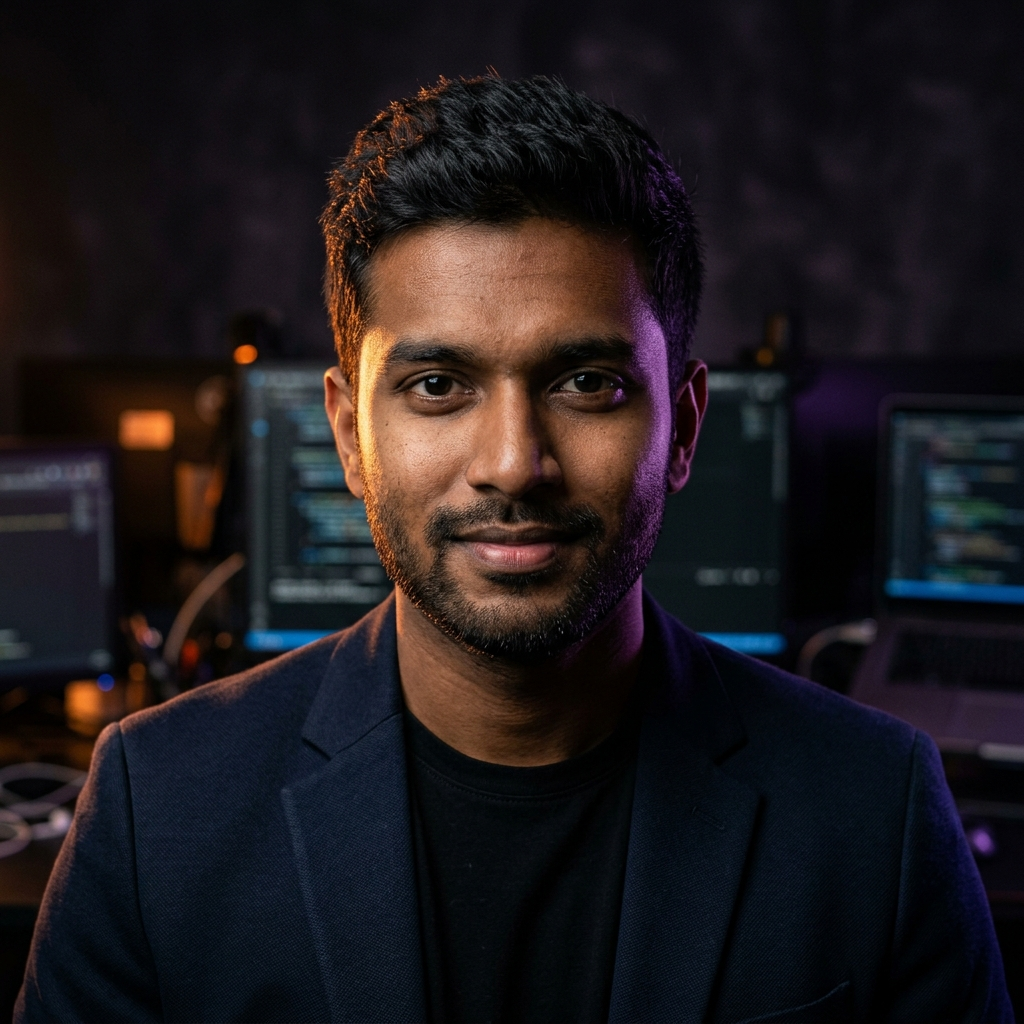
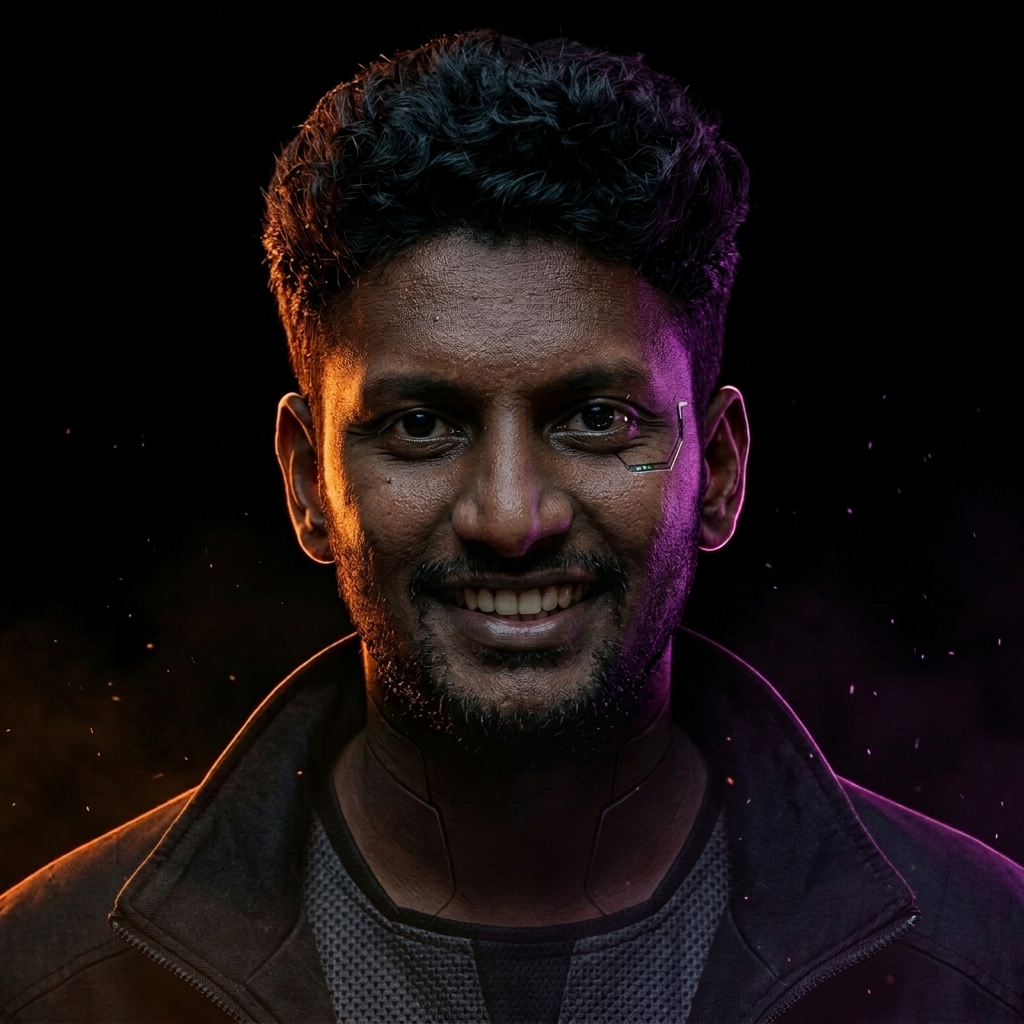
feat: initialize frontend components, HTML structure, and contact terminal interface

diff --git a/Frontend/src/components/Hero.css b/Frontend/src/components/Hero.css
@@ -11,7 +11,7 @@
   justify-content: center;
   padding: 120px 24px 60px;
   overflow: hidden;
-  background: 
+  background:
     radial-gradient(ellipse 80% 60% at 50% 50%, rgba(88, 28, 135, 0.15) 0%, transparent 70%),
     radial-gradient(ellipse 60% 40% at 20% 50%, rgba(255, 107, 53, 0.08) 0%, transparent 60%),
     radial-gradient(ellipse 60% 40% at 80% 50%, rgba(255, 107, 53, 0.08) 0%, transparent 60%),
@@ -54,10 +54,25 @@
 }
 
 @keyframes float-particle {
-  0% { opacity: 0; transform: translateY(0) scale(0); }
-  20% { opacity: 0.8; transform: translateY(-20px) scale(1); }
-  80% { opacity: 0.4; transform: translateY(-80px) scale(0.8); }
-  100% { opacity: 0; transform: translateY(-120px) scale(0); }
+  0% {
+    opacity: 0;
+    transform: translateY(0) scale(0);
+  }
+
+  20% {
+    opacity: 0.8;
+    transform: translateY(-20px) scale(1);
+  }
+
+  80% {
+    opacity: 0.4;
+    transform: translateY(-80px) scale(0.8);
+  }
+
+  100% {
+    opacity: 0;
+    transform: translateY(-120px) scale(0);
+  }
 }
 
 /* ---- Code Snippets ---- */
@@ -118,8 +133,15 @@
 }
 
 @keyframes code-fade {
-  0%, 100% { opacity: 0.3; }
-  50% { opacity: 0.8; }
+
+  0%,
+  100% {
+    opacity: 0.3;
+  }
+
+  50% {
+    opacity: 0.8;
+  }
 }
 
 /* ---- Comment ---- */
@@ -143,21 +165,19 @@
   letter-spacing: 4px;
   margin: 0 0 16px;
   line-height: 1.1;
-  background: linear-gradient(135deg, 
-    #00f0ff 0%, 
-    #a855f7 25%, 
-    #ff00ff 50%, 
-    #ff1493 75%, 
-    #00f0ff 100%
-  );
+  background: linear-gradient(135deg,
+      #00f0ff 0%,
+      #a855f7 25%,
+      #ff00ff 50%,
+      #ff1493 75%,
+      #00f0ff 100%);
   background-size: 200% 200%;
   -webkit-background-clip: text;
   background-clip: text;
   -webkit-text-fill-color: transparent;
   animation: gradient-shift 4s ease infinite;
   text-shadow: none;
-  filter: drop-shadow(0 0 30px rgba(0, 240, 255, 0.3))
-          drop-shadow(0 0 60px rgba(168, 85, 247, 0.2));
+  filter: drop-shadow(0 0 30px rgba(0, 240, 255, 0.3)) drop-shadow(0 0 60px rgba(168, 85, 247, 0.2));
 }
 
 .hero__name-dot {
@@ -167,9 +187,17 @@
 }
 
 @keyframes gradient-shift {
-  0% { background-position: 0% 50%; }
-  50% { background-position: 100% 50%; }
-  100% { background-position: 0% 50%; }
+  0% {
+    background-position: 0% 50%;
+  }
+
+  50% {
+    background-position: 100% 50%;
+  }
+
+  100% {
+    background-position: 0% 50%;
+  }
 }
 
 /* ---- Typing Role ---- */
@@ -198,8 +226,15 @@
 }
 
 @keyframes blink-cursor {
-  0%, 100% { opacity: 1; }
-  50% { opacity: 0; }
+
+  0%,
+  100% {
+    opacity: 1;
+  }
+
+  50% {
+    opacity: 0;
+  }
 }
 
 /* ---- Tagline ---- */
@@ -387,30 +422,56 @@
 /* ---- Portrait Images ---- */
 .hero__portrait {
   position: absolute;
-  top: 50%;
-  transform: translateY(-50%);
-  width: 35%;
-  max-width: 400px;
+  top: 0;
+  bottom: 0;
+  width: 50%;
   z-index: 3;
   pointer-events: none;
+  overflow: hidden;
 }
 
 .hero__portrait img {
   width: 100%;
-  height: auto;
+  height: 100%;
   object-fit: cover;
-  filter: contrast(1.2) brightness(0.6) saturate(0.8);
-  mix-blend-mode: luminosity;
-  opacity: 0.5;
+  opacity: 0.65;
 }
 
+/* LEFT: right edge of this 50%-wide box = viewport center when left:0 */
 .hero__portrait--left {
-  left: -5%;
+  left: 0;
+  animation: slide-to-left 7s cubic-bezier(0.3, 1, 0.4, 1) 1.5s both;
 }
 
+/* RIGHT half of Image 2 aligns to the container's right edge (= viewport center) */
+.hero__portrait--left img {
+  object-position: right top;
+}
+
+/* RIGHT: left edge of this 50%-wide box = viewport center when right:0 */
 .hero__portrait--right {
-  right: -5%;
-  transform: translateY(-50%) scaleX(-1);
+  right: 0;
+  animation: slide-to-right 7s cubic-bezier(0.3, 1, 0.4, 1) 1.5s both;
+}
+
+/* LEFT half of Image 1 aligns to the container's left edge (= viewport center) */
+.hero__portrait--right img {
+  object-position: left top;
+}
+
+/* ---- Portrait Slide Animations ---- */
+/* Left portrait: starts hidden completely off-screen-right (left:100%), slides to left:0 */
+@keyframes slide-to-left {
+  0%   { left: 100%; }
+  15%  { left: 50%;  }
+  100% { left: 0;    }
+}
+
+/* Right portrait: starts hidden completely off-screen-left (right:100%), slides to right:0 */
+@keyframes slide-to-right {
+  0%   { right: 100%; }
+  15%  { right: 50%;  }
+  100% { right: 0;    }
 }
 
 .hero__portrait-overlay {
@@ -420,11 +481,17 @@
 }
 
 .hero__portrait-overlay--left {
-  background: linear-gradient(90deg, transparent 0%, var(--bg-primary) 85%);
+  background:
+    linear-gradient(90deg, transparent 0%, transparent 30%, var(--bg-primary) 90%),
+    linear-gradient(180deg, transparent 0%, transparent 70%, var(--bg-primary) 100%),
+    linear-gradient(0deg, transparent 0%, transparent 85%, var(--bg-primary) 100%);
 }
 
 .hero__portrait-overlay--right {
-  background: linear-gradient(-90deg, transparent 0%, var(--bg-primary) 85%);
+  background:
+    linear-gradient(-90deg, transparent 0%, transparent 30%, var(--bg-primary) 90%),
+    linear-gradient(180deg, transparent 0%, transparent 70%, var(--bg-primary) 100%),
+    linear-gradient(0deg, transparent 0%, transparent 85%, var(--bg-primary) 100%);
 }
 
 /* ---- Bottom Line ---- */
@@ -434,13 +501,12 @@
   left: 0;
   right: 0;
   height: 1px;
-  background: linear-gradient(90deg, 
-    transparent, 
-    var(--cyan) 20%, 
-    var(--magenta) 50%, 
-    var(--cyan) 80%, 
-    transparent
-  );
+  background: linear-gradient(90deg,
+      transparent,
+      var(--cyan) 20%,
+      var(--magenta) 50%,
+      var(--cyan) 80%,
+      transparent);
   opacity: 0.4;
 }
 

diff --git a/Frontend/index.html b/Frontend/index.html
@@ -1,19 +1,25 @@
 <!doctype html>
 <html lang="en">
-  <head>
-    <meta charset="UTF-8" />
-    <link rel="icon" type="image/svg+xml" href="/favicon.svg" />
-    <meta name="viewport" content="width=device-width, initial-scale=1.0" />
-    <meta name="description" content="S.Pawara Sasmina - UI/UX Creator, Software Engineer. Engineer by Skill. Artist by Vision. Portfolio showcasing projects, skills, and creative work." />
-    <meta name="keywords" content="Pawara Sasmina, UI/UX, Software Engineer, Portfolio, Web Developer, SLIIT" />
-    <meta name="author" content="S.Pawara Sasmina" />
-    <title>S.Pawara Sasmina | Portfolio</title>
-    <link rel="preconnect" href="https://fonts.googleapis.com">
-    <link rel="preconnect" href="https://fonts.gstatic.com" crossorigin>
-    <link href="https://fonts.googleapis.com/css2?family=Orbitron:wght@400;500;600;700;800;900&family=Fira+Code:wght@300;400;500;600;700&family=Inter:wght@300;400;500;600;700&family=Space+Mono:wght@400;700&display=swap" rel="stylesheet">
-  </head>
-  <body>
-    <div id="root"></div>
-    <script type="module" src="/src/main.tsx"></script>
-  </body>
+
+<head>
+  <meta charset="UTF-8" />
+  <link rel="icon" type="image/svg+xml" href="/favicon.svg" />
+  <meta name="viewport" content="width=device-width, initial-scale=1.0" />
+  <meta name="description"
+    content="H.Hashitha Danidu - UI/UX Creator, Software Engineer. Engineer by Skill. Artist by Vision. Portfolio showcasing projects, skills, and creative work." />
+  <meta name="keywords" content="Hashitha Danidu, UI/UX, Software Engineer, Portfolio, Web Developer, SLIIT" />
+  <meta name="author" content="H.Hashitha Danidu" />
+  <title>H G Hashitha Danidu | Portfolio</title>
+  <link rel="preconnect" href="https://fonts.googleapis.com">
+  <link rel="preconnect" href="https://fonts.gstatic.com" crossorigin>
+  <link
+    href="https://fonts.googleapis.com/css2?family=Orbitron:wght@400;500;600;700;800;900&family=Fira+Code:wght@300;400;500;600;700&family=Inter:wght@300;400;500;600;700&family=Space+Mono:wght@400;700&display=swap"
+    rel="stylesheet">
+</head>
+
+<body>
+  <div id="root"></div>
+  <script type="module" src="/src/main.tsx"></script>
+</body>
+
 </html>

diff --git a/Frontend/src/components/Hero.tsx b/Frontend/src/components/Hero.tsx
@@ -1,5 +1,6 @@
 import { useState, useEffect, useRef } from 'react';
-import portrait from '../assets/portrait.png';
+import portraitLeft from '../assets/Image 2.png';
+import portraitRight from '../assets/Image 1.png';
 import './Hero.css';
 
 const roles = ['UI/UX Creator', 'Full Stack Developer', 'Software Engineer', 'Creative Designer'];
@@ -95,7 +96,7 @@ export default function Hero() {
       {/* Floating code snippets */}
       <div className="hero__code-snippets">
         <span className="hero__code hero__code--left-1">
-          <span className="code-keyword">const</span> developer = <span className="code-string">"Pawara Sasmina"</span>;
+          <span className="code-keyword">const</span> developer = <span className="code-string">"Hashitha Danidu"</span>;
         </span>
         <span className="hero__code hero__code--right-1">
           <span className="code-keyword">return</span> innovation;
@@ -114,9 +115,9 @@ export default function Hero() {
       {/* Main Name */}
       <h1 className="hero__name">
         <span className="hero__name-dot">.</span>
-        <span className="hero__name-first">S</span>
+        <span className="hero__name-first">H</span>
         <span className="hero__name-dot">.</span>
-        <span className="hero__name-main">PAWARA SASMINA</span>
+        <span className="hero__name-main">HASHITHA DANIDU</span>
       </h1>
 
       {/* Typing Role */}
@@ -177,11 +178,11 @@ export default function Hero() {
 
       {/* Portrait Images - Left & Right */}
       <div className="hero__portrait hero__portrait--left">
-        <img src={portrait} alt="S.Pawara Sasmina" />
+        <img src={portraitLeft} alt="H.Hashitha Danidu" />
         <div className="hero__portrait-overlay hero__portrait-overlay--left"></div>
       </div>
       <div className="hero__portrait hero__portrait--right">
-        <img src={portrait} alt="S.Pawara Sasmina" />
+        <img src={portraitRight} alt="H.Hashitha Danidu" />
         <div className="hero__portrait-overlay hero__portrait-overlay--right"></div>
       </div>
 

diff --git a/Frontend/src/components/About.tsx b/Frontend/src/components/About.tsx
@@ -57,7 +57,7 @@ export default function About() {
             </div>
             {/* Center circle */}
             <div className="about__avatar-circle">
-              <span className="about__avatar-text">SPS</span>
+              <span className="about__avatar-text">HD</span>
             </div>
           </div>
 

diff --git a/Frontend/src/components/Contact.tsx b/Frontend/src/components/Contact.tsx
@@ -177,7 +177,7 @@ export default function Contact() {
             <span className="contact__dot contact__dot--yellow"></span>
             <span className="contact__dot contact__dot--green"></span>
           </div>
-          <span className="contact__terminal-user">[email redacted]</span>
+          <span className="contact__terminal-user">[email redacted]</span>
           <span className="contact__terminal-time">{getCurrentDateTime()}</span>
         </div>
 

diff --git a/Frontend/src/components/Navbar.tsx b/Frontend/src/components/Navbar.tsx
@@ -25,7 +25,7 @@ export default function Navbar() {
   return (
     <nav className={`navbar ${scrolled ? 'navbar--scrolled' : ''}`} id="main-nav">
       <div className="navbar__logo">
-        <span className="navbar__logo-text">S.P.S</span>
+        <span className="navbar__logo-text">H.D</span>
         <span className="navbar__logo-dot"></span>
       </div>
 